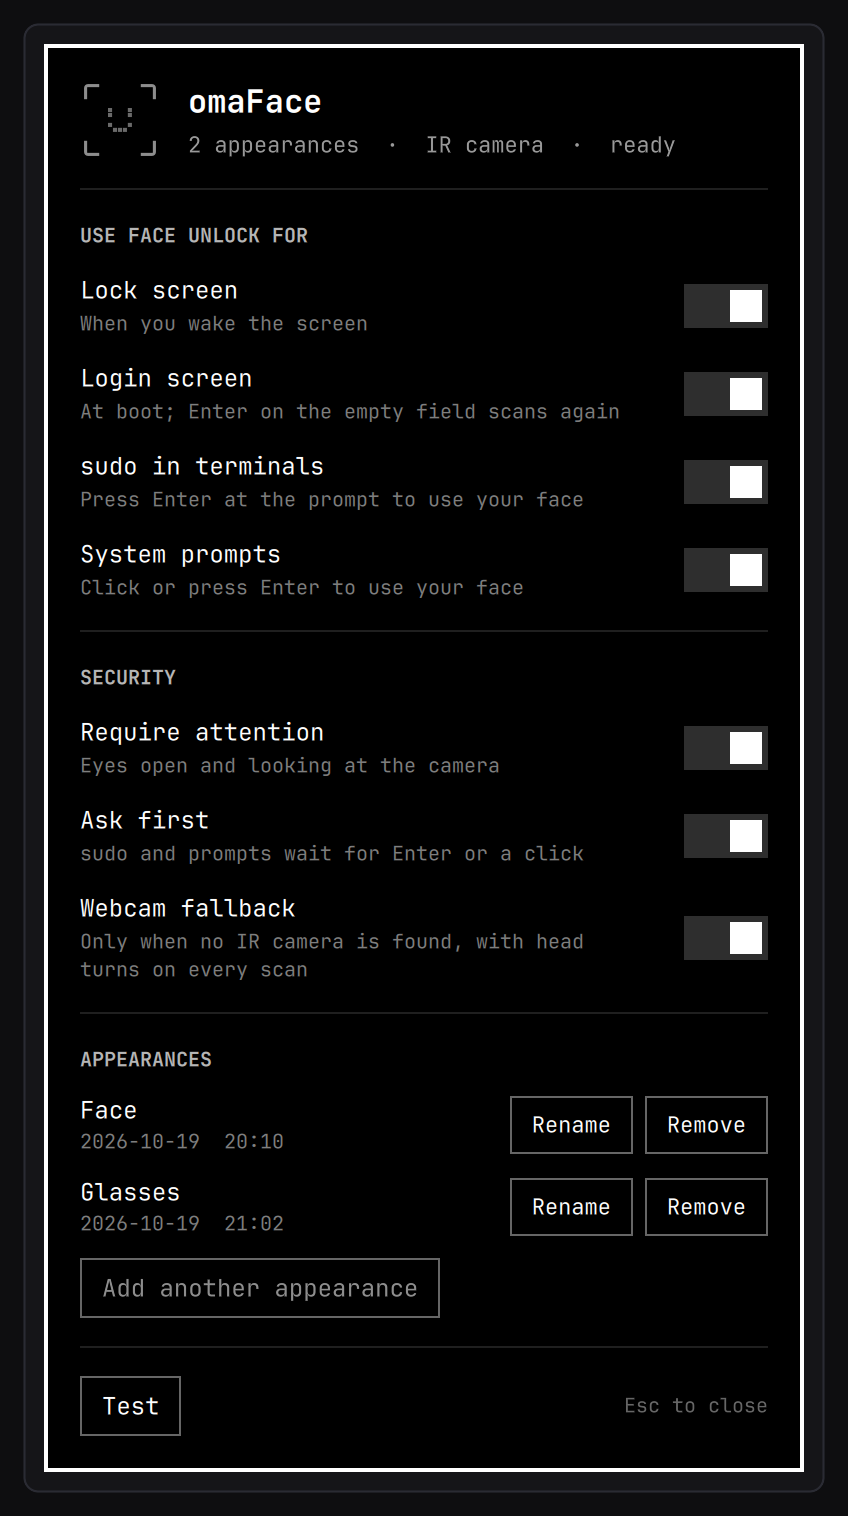
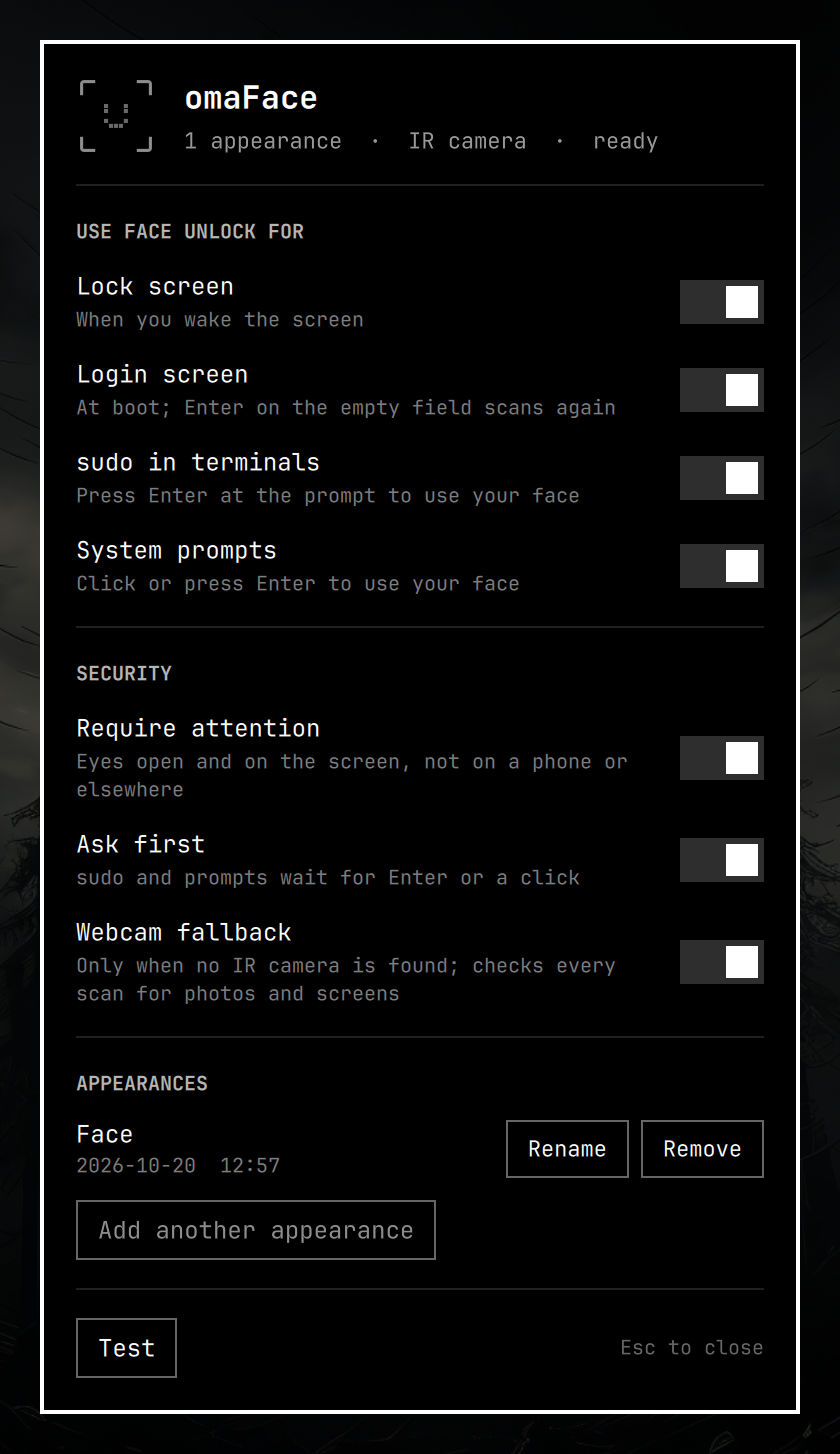
README: current screenshots of Settings, the system prompt and the lock screen

diff --git a/README.md b/README.md
@@ -56,7 +56,7 @@ choose **Set up omaFace**.
 
 <table>
   <tr>
-    <td width="50%"><img src="docs/system-prompt.png" alt="A system prompt offering omaFace: Enter or click for omaFace, type for password"></td>
+    <td width="50%"><img src="docs/system-prompt.png" alt="The system prompt for changing omaFace settings, offering omaFace: Enter or click for omaFace, type for password"></td>
     <td width="50%"><img src="docs/sudo.png" alt="sudo in a terminal: Enter to use your face, Esc or any other key for your password"></td>
   </tr>
   <tr>
@@ -65,11 +65,11 @@ choose **Set up omaFace**.
   </tr>
   <tr>
     <td><img src="docs/settings.png" alt="The omaFace settings window: places, attention, ask first, appearances"></td>
-    <td><img src="docs/enroll.png" alt="Enrollment: a ring of ticks fills as the head moves in a circle around a braille preview"><br><br><img src="docs/lock-webcam.png" alt="Webcam mode on the lock screen: turn your head left"></td>
+    <td><img src="docs/enroll.png" alt="Enrollment: a ring of ticks fills as the head moves in a circle around a braille preview"><br><br><img src="docs/lock-screen-scan.png" alt="The lock screen while omaFace scans: Look at the screen, above the password field"></td>
   </tr>
   <tr>
     <td><sub>Settings: where omaFace is used, attention, ask first, appearances.</sub></td>
-    <td><sub>Enrolling (the preview is braille, drawn here), and webcam mode's optional head-turn check.</sub></td>
+    <td><sub>Enrolling (the preview is braille, drawn here), and the lock screen while it scans.</sub></td>
   </tr>
 </table>
 
